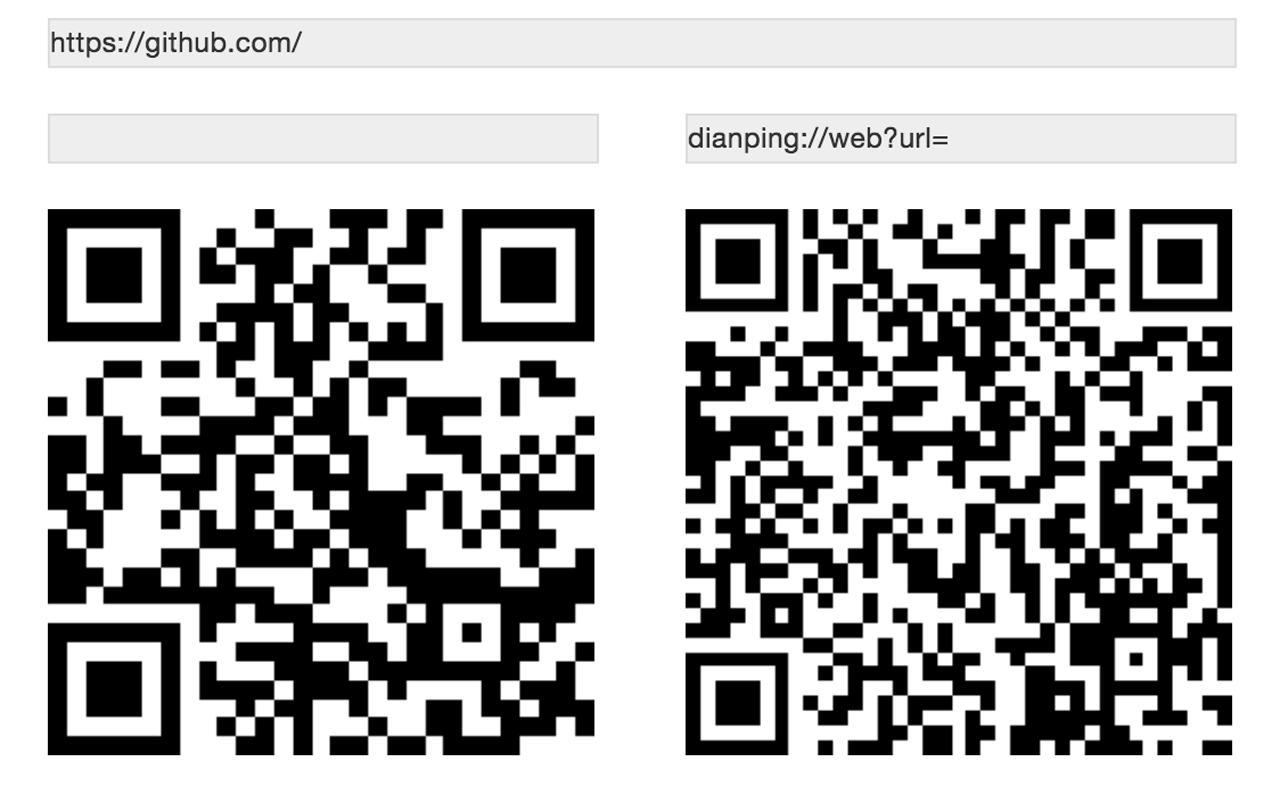
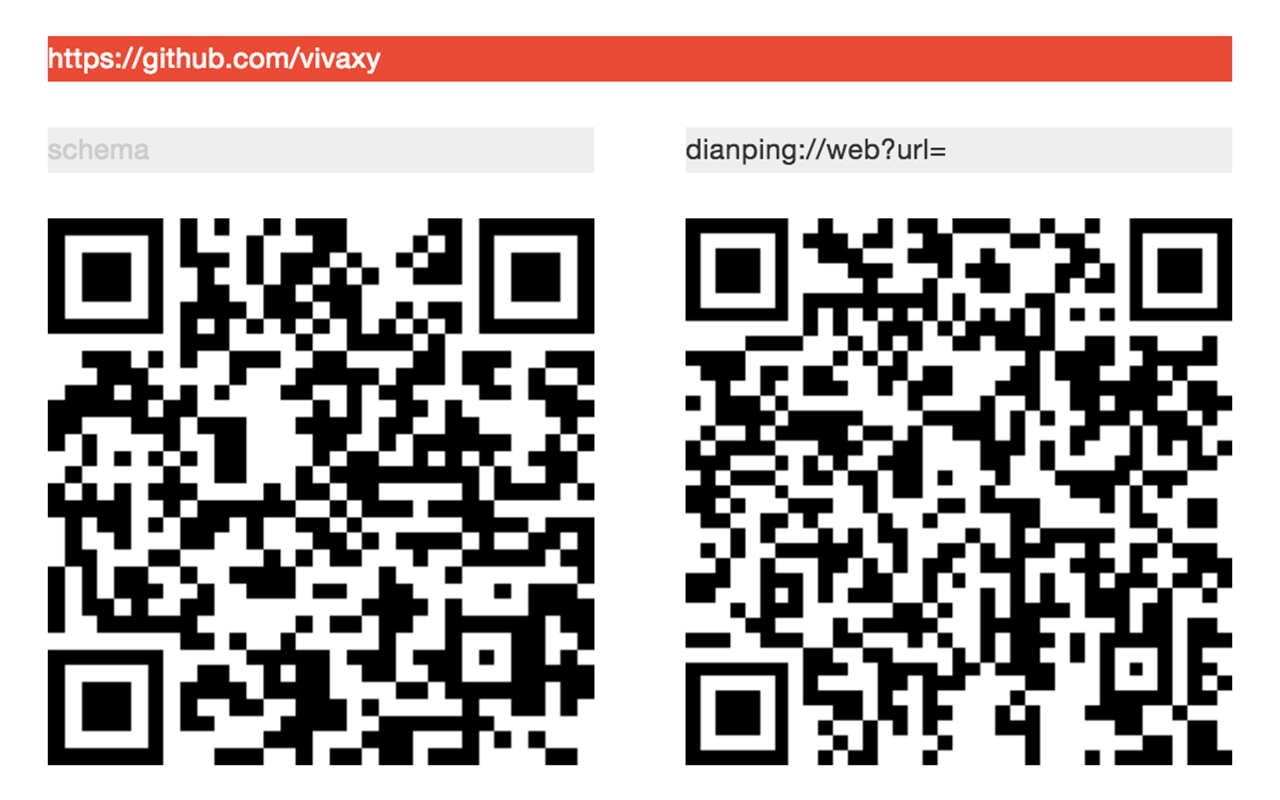
fix

diff --git a/dest/js/index.js b/dest/js/index.js
@@ -53,6 +53,9 @@ $schema1.on('keyup', generateQr);
 try {
     // init input data
     chrome.storage.sync.get('schema', function (storage) {
+        if (storage.schema === undefined) {
+            storage.schema = ['', 'dianping://web?url='];
+        }
         $schema0.val(storage.schema[0]);
         $schema1.val(storage.schema[1]);
 
